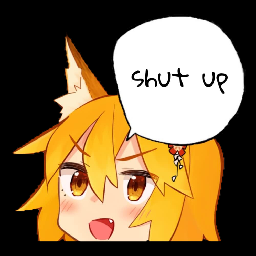
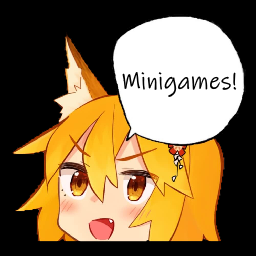
Personalize template

Changed region(s): [[0.4688, 0.25, 0.9375, 0.375]]

diff --git a/README.md b/README.md
@@ -1,63 +1,3 @@
-# mcbedrock-gametest-starter
-A template repository for getting started with scripting gametest modules for Minecraft: Bedrock Edition.
+# Minigames
 
-## Features
-* Typescript configured for ES2023.
-* Proper bundling with Esbuild for vanilla-data and third-party packages.
-* Strict linting with Biome.
-* Development environment configured with extensions.
-* Minification and js.map.
-* Automated mcpack building.
-
-## Requirements
-You need the following utilities installed: [pnpm](https://pnpm.io/), [node LTS](https://nodejs.org/en/download), [vscode](https://code.visualstudio.com/)
-
-## Setup
-It's recommended to [use this repository as a template.](https://github.com/new?template_name=mcbedrock-gametest-starter&template_owner=sunshinekitsune)
-
-1. Locate your Minecraft development behavior packs directory.
-
-	Press ``Windows + R`` and paste the appropriate directory path for your Minecraft version into File Explorer.
-	* Minecraft Bedrock ``%appdata%\Minecraft Bedrock\users\shared\games\com.mojang\development_behavior_packs``
-	* Minecraft Preview ``%appdata%\Minecraft Bedrock Preview\users\shared\games\com.mojang\development_behavior_packs``
-
-2. Clone the repository.
-
-	Open a terminal in that directory and clone your repository.
-	```sh
-	git clone https://github.com/YOUR_USERNAME/YOUR_REPO.git
-	cd YOUR_REPO
-	```
-
-3. Install dependencies.
-
-	Install the required Node packages.
-	```sh
-	pnpm install
-	```
-
-4. Open your IDE.
-
-	After installing the packages, open the folder in VSCode.
-	* If you have already opened VSCode, restart so Biome can initialize properly.
-
-5. Install recommended packages.
-
-	In the bottom right of VSCode, it should ask you to install some extensions. Click yes!
-
-6. Done! You are ready.
-
-## Commands
-- ``pnpm run watch`` Cleans the output directory and automatically recompiles scripts when files are modified. Use this while developing.
-- ``pnpm run build`` Performs a single production build.
-- ``pnpm run pack`` Builds code and packs all necessary files into a addon.mcpack.
-- ``pnpm run clean`` Remotes temporary files.
-
-# Post-setup instructions.
-1. Open ``manifest.json`` replace all 3 of the the UUIDs with new unique ones. [You can generate them quickly here](https://www.uuidgenerator.net/). Also update the pack name and description.
-2. Update the pack icon. (pack_icon.png)
-3. If you want to compress your code for mcpack builds, set minify: true in tools/esbuild.cjs.
-4. Depending on who you are, update LICENSE.md as needed to match your needs.
-
-## Beta API
-This project is set up to use the stable version of gametest scripting modules. If you want to switch to beta, there is nothing stopping you. Just make sure to update both the version in package.json AND manifest.json
+A in progress minigames map for Minecraft: Bedrock Edition using its scripting API.

diff --git a/CONTRIBUTING.md b/CONTRIBUTING.md
@@ -1,0 +1,58 @@
+# Contributing
+This project uses [sunshinekitsune's scripting template](https://github.com/new?template_name=mcbedrock-gametest-starter&template_owner=sunshinekitsune) for Minecraft: Bedrock Edition.
+
+## Features
+* Typescript configured for ES2023.
+* Proper bundling with Esbuild for vanilla-data and third-party packages.
+* Strict linting with Biome.
+* Development environment configured with extensions.
+* Minification and js.map.
+* Automated mcpack building.
+
+## Requirements
+You need the following utilities installed: [pnpm](https://pnpm.io/), [node LTS](https://nodejs.org/en/download), [vscode](https://code.visualstudio.com/)
+
+## Setup
+1. Locate your Minecraft development behavior packs directory.
+
+	Press ``Windows + R`` and paste the appropriate directory path for your Minecraft version into File Explorer.
+	* Minecraft Bedrock ``%appdata%\Minecraft Bedrock\users\shared\games\com.mojang\development_behavior_packs``
+	* Minecraft Preview ``%appdata%\Minecraft Bedrock Preview\users\shared\games\com.mojang\development_behavior_packs``
+
+2. Clone the repository.
+
+	Open a terminal in that directory and clone this repository.
+	```sh
+	git clone https://github.com/Frogzalcoatl/mcbedrock-minigames.git
+	cd mcbedrock-minigames
+	```
+
+3. Install dependencies.
+
+	Install the required Node packages.
+	```sh
+	pnpm install
+	```
+
+4. Open your IDE.
+
+	After installing the packages, open the folder in VSCode.
+	* If you have already opened VSCode, restart so Biome can initialize properly.
+
+5. Install recommended packages.
+
+	In the bottom right of VSCode, it should ask you to install some extensions. Click yes!
+
+6. Done! You are ready.
+
+## Commands
+- ``pnpm run watch`` Cleans the output directory and automatically recompiles scripts when files are modified. Use this while developing.
+- ``pnpm run build`` Performs a single production build.
+- ``pnpm run pack`` Builds code and packs all necessary files into a addon.mcpack.
+- ``pnpm run clean`` Remotes temporary files.
+
+# Post-setup instructions.
+If you want to compress your code for mcpack builds, set minify: true in tools/esbuild.cjs.
+
+## Beta API
+This project is set up to use the stable version of gametest scripting modules. If you want to switch to beta, update both the version in package.json AND manifest.json.

diff --git a/LICENSE.md b/LICENSE.md
@@ -1,5 +1,7 @@
 Copyright 2026 SunnyTheFennec "sunshinekitsune" "xskutsu"
 
+Copyright 2026 Frogzalcoatl
+
 Permission is hereby granted, free of charge, to any person obtaining a copy of this software and associated documentation files (the “Software”), to deal in the Software without restriction, including without limitation the rights to use, copy, modify, merge, publish, distribute, sublicense, and/or sell copies of the Software, and to permit persons to whom the Software is furnished to do so, subject to the following conditions:
 
 The above copyright notice and this permission notice shall be included in all copies or substantial portions of the Software.
